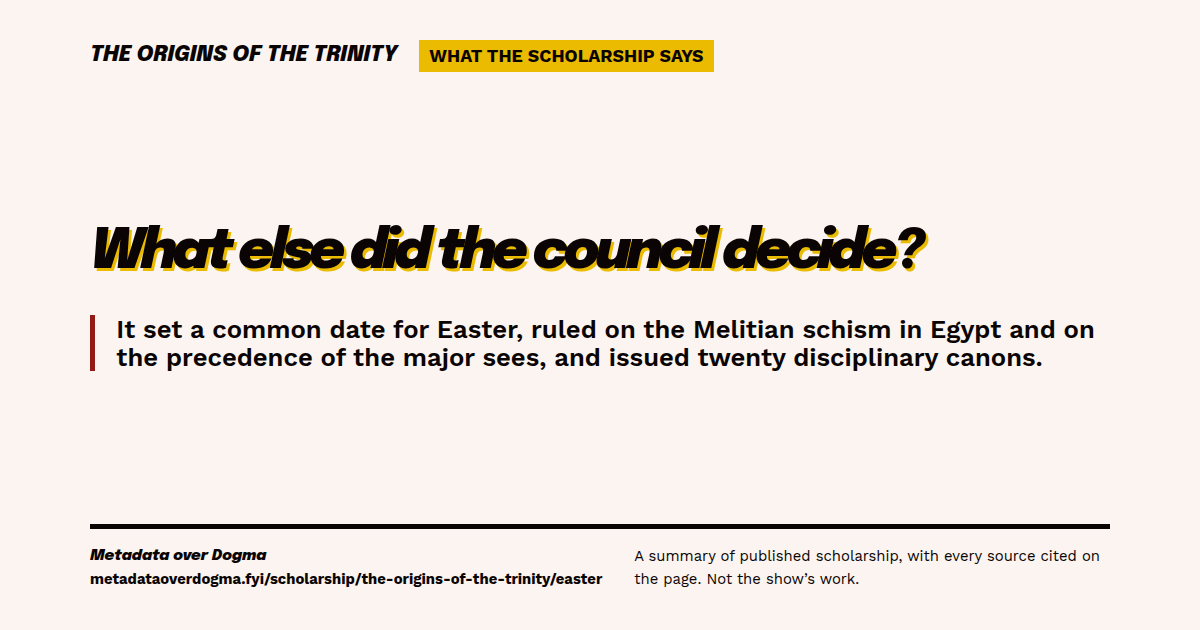
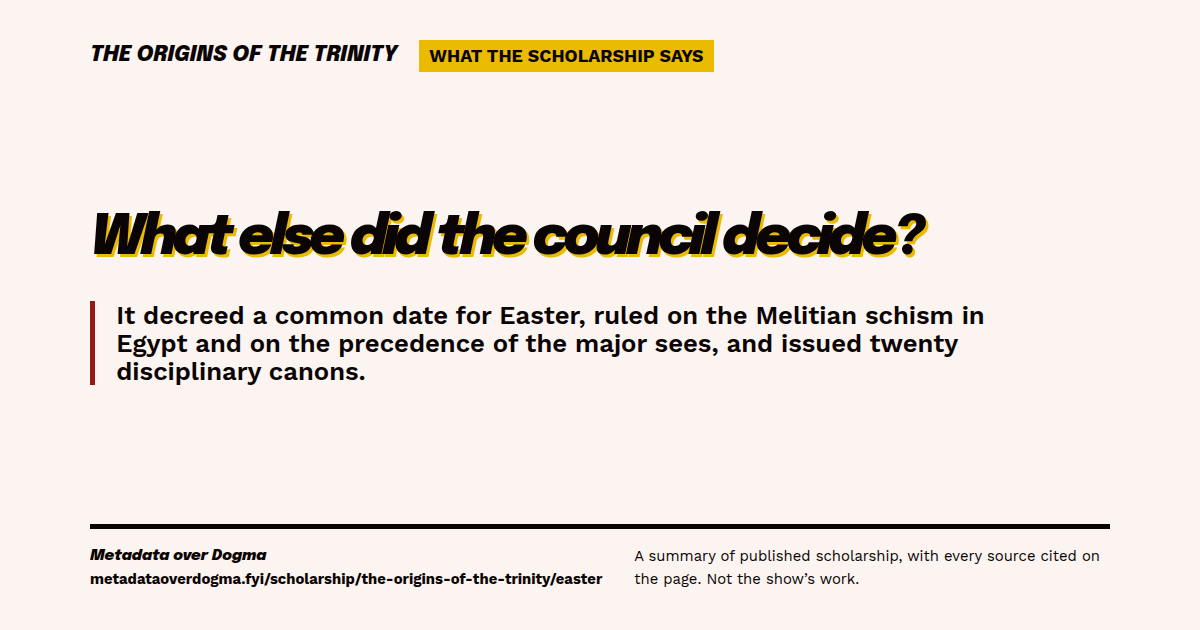
Second agent pass on the-origins-of-the-trinity leads (#247)

Changed region(s): [[0.0925, 0.4825, 0.925, 0.6032], [0.0617, 0.3317, 0.7708, 0.4524]]

diff --git a/hugo/content/scholarship/the-origins-of-the-trinity.md b/hugo/content/scholarship/the-origins-of-the-trinity.md
@@ -360,8 +360,8 @@ statements:
   - id: easter
     group: "The Council of Nicaea"
     question: "What else did the council decide?"
-    short: "It set a common date for Easter, ruled on the Melitian schism in Egypt and on the precedence of the major sees, and issued twenty disciplinary canons."
-    text: "John Bowker's dictionary says the council promulgated canons and reached decisions on the Melitian schism in Egypt, the calculation of the date of Easter and the precedence of the major Christian sees. The New Catholic Encyclopedia says it chose to celebrate Easter on the Sunday after the first full moon after the vernal equinox, as the West and Egypt did, and promulgated 20 disciplinary decrees. George Demacopoulos calls the common date for Easter one of the council's most impactful outcomes, though most scholars emphasise the Arian controversy or Constantine's role. Riemer Roukema and Christoph Heikens note that Constantine's letter to the churches reports the council's unanimous decision to celebrate Easter on the same day; Britannica's entry says the council attempted but failed to establish a uniform date for Easter. Roukema and Heikens also find no reason to hold that the council decided which early Christian books were canonical: the first testimony to such a division at Nicaea is a legendary account from the late ninth century, though they note that a few scholars allow there might be some truth in the view."
+    short: "It decreed a common date for Easter, ruled on the Melitian schism in Egypt and on the precedence of the major sees, and issued twenty disciplinary canons."
+    text: "John Bowker's dictionary says the council promulgated canons and reached decisions on the Melitian schism in Egypt, the calculation of the date of Easter and the precedence of the major Christian sees. The New Catholic Encyclopedia says it chose to celebrate Easter on the Sunday after the first full moon after the vernal equinox, as the West and Egypt did, and promulgated 20 disciplinary decrees. George Demacopoulos calls the common date for Easter one of the council's most impactful outcomes, though most scholars emphasise the Arian controversy or Constantine's role. Riemer Roukema and Christoph Heikens note that Constantine's letter to the churches reports the council's unanimous decision to celebrate Easter on the same day; Britannica's entry says the council attempted but failed to establish a uniform date for Easter. Roukema and Heikens also find no reason to hold that the council decided which early Christian books were canonical: the first testimony to such a division at Nicaea is a legendary account from the late ninth century, though they note that a few scholars agree there is or might be some truth in the view."
     cites:
       - source: ortiz-nce-nicaea
         locator: "section “Easter Question and Canons.”"
@@ -403,15 +403,15 @@ statements:
   - id: nicholas
     group: "The Council of Nicaea"
     question: "Did Saint Nicholas slap Arius at the Council of Nicaea?"
-    short: "No reliable record shows it. Little or nothing of Nicholas's life is historically attested beyond his being bishop of Myra, and even his presence at Nicaea is uncertain."
+    short: "No reliable record shows it. Nothing certain is known of his life beyond his probably having been bishop of Myra, and even his presence at Nicaea is uncertain."
     text: "Britannica's entry on Saint Nicholas says his existence is not attested by any historical document, so that nothing certain is known of his life except that he was probably bishop of Myra in the fourth century, and that he may have attended the Council of Nicaea, where he allegedly struck Arius in the face. A. G. Gibson's New Catholic Encyclopedia entry says no historically trustworthy evidence of the events of his life exists except the fact of his episcopate, and that it is legends that place him at the Council of Nicaea."
     cites:
       - source: britannica-saint-nicholas
-        locator: "opening section"
+        locator: "section “According to tradition”"
         quote: "Nicholas’s existence is not attested by any historical document, so nothing certain is known of his life except that he was probably bishop of Myra in the 4th century."
         read: 2026-11-27
       - source: britannica-saint-nicholas
-        locator: "opening section"
+        locator: "section “According to tradition”"
         quote: "He may have attended the first Council of Nicaea (325), where he allegedly struck the heretic Arius in the face."
         read: 2026-11-27
       - source: gibson-nce-nicholas
